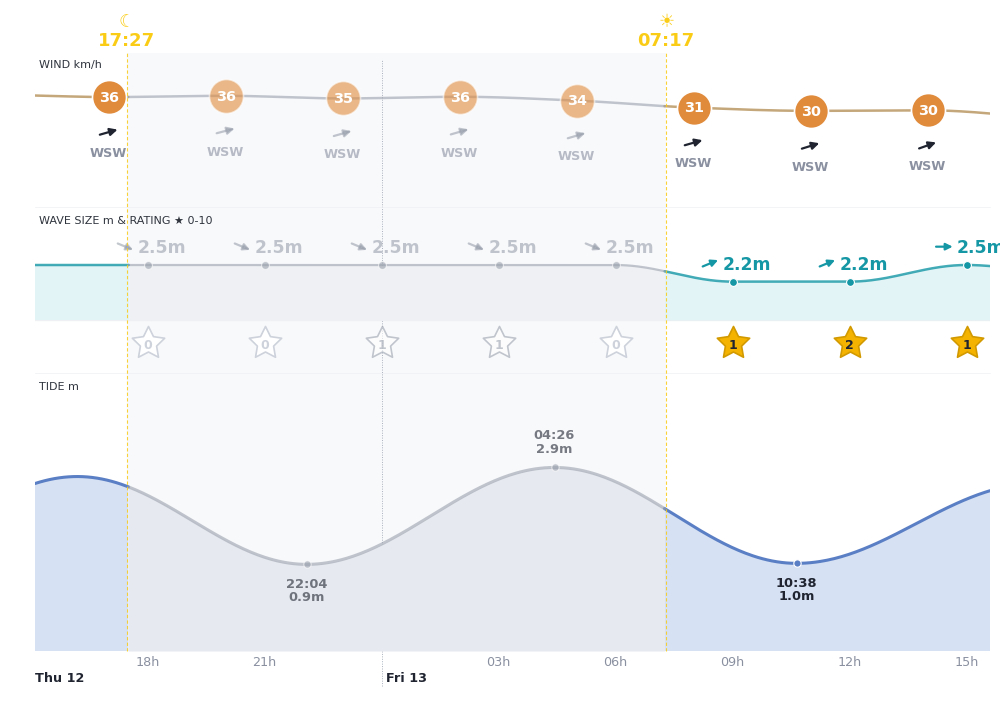
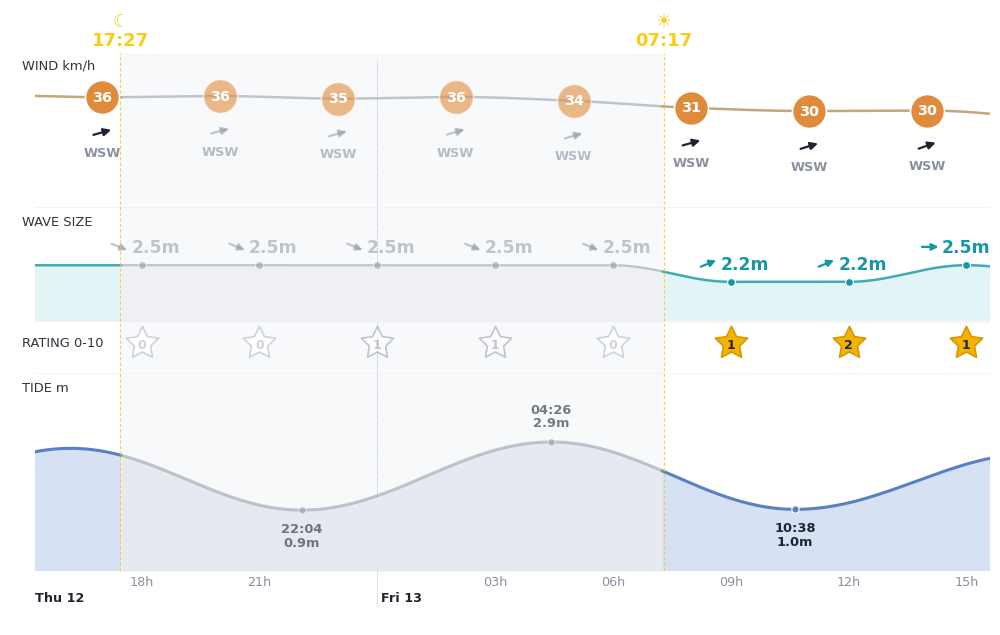
erisurf: run 381

diff --git a/index.html b/index.html
@@ -534,7 +534,7 @@ function draw(){var n=Date.now();cards(n);if(r.open)tide(n)}
 draw();setInterval(draw,60e3);r.addEventListener('toggle',draw);
 document.addEventListener('visibilitychange',function(){if(!document.hidden)draw()});
 if(window.ResizeObserver)new ResizeObserver(function(){if(r.open)draw()}).observe(o);
-})();</script><h2 class="livehd" id="conditions">Wind, tide &amp; surf forecast <span class="plan-fc">· Next 36h</span></h2><figure id="pic-conditions" class="c36"><div class="livechart" data-geo="{&quot;t0&quot;: 1794495999, &quot;t1&quot;: 1794627360, &quot;report&quot;: 1794501759, &quot;left&quot;: 0.035, &quot;right&quot;: 0.99, &quot;top&quot;: 0.0754, &quot;bottom&quot;: 0.9106, &quot;suns&quot;: [1794504456, 1794554259, 1794590805], &quot;sunk&quot;: [&quot;set&quot;, &quot;rise&quot;, &quot;set&quot;], &quot;warp&quot;: [[1794495999, 0.0], [1794495999, 0.0], [1794496899, 0.01129], [1794497799, 0.02255], [1794498699, 0.0337], [1794499599, 0.04467], [1794500499, 0.05535], [1794501399, 0.06564], [1794502299, 0.07544], [1794503199, 0.08466], [1794504099, 0.09324], [1794504999, 0.10115], [1794505899, 0.10839], [1794506799, 0.11499], [1794507699, 0.12102], [1794508599, 0.12655], [1794509499, 0.13169], [1794510399, 0.13655], [1794511299, 0.14122], [1794512199, 0.14578], [1794513099, 0.15031], [1794513999, 0.15483], [1794514899, 0.15935], [1794515799, 0.16387], [1794516699, 0.16839], [1794517599, 0.17292], [1794518499, 0.17744], [1794519399, 0.18196], [1794520299, 0.18648], [1794521199, 0.191], [1794522099, 0.19552], [1794522999, 0.20004], [1794523899, 0.20456], [1794524799, 0.20908], [1794525699, 0.2136], [1794526599, 0.21812], [1794527499, 0.22264], [1794528399, 0.22716], [1794529299, 0.23168], [1794530199, 0.2362], [1794531099, 0.24073], [1794531999, 0.24525], [1794532899, 0.24977], [1794533799, 0.25429], [1794534699, 0.25881], [1794535599, 0.26333], [1794536499, 0.26785], [1794537399, 0.27237], [1794538299, 0.27689], [1794539199, 0.28141], [1794540099, 0.28593], [1794540999, 0.29045], [1794541899, 0.29497], [1794542799, 0.29949], [1794543699, 0.30401], [1794544599, 0.30854], [1794545499, 0.31306], [1794546399, 0.31758], [1794547299, 0.32213], [1794548199, 0.32675], [1794549099, 0.33154], [1794549999, 0.33657], [1794550899, 0.34196], [1794551799, 0.34781], [1794552699, 0.35421], [1794553599, 0.36124], [1794554499, 0.36892], [1794555399, 0.37728], [1794556299, 0.3863], [1794557199, 0.39591], [1794558099, 0.40605], [1794558999, 0.41661], [1794559899, 0.42749], [1794560799, 0.43859], [1794561699, 0.44982], [1794562599, 0.46111], [1794563499, 0.47241], [1794564399, 0.48371], [1794565299, 0.49501], [1794566199, 0.50631], [1794567099, 0.51762], [1794567999, 0.52892], [1794568899, 0.54022], [1794569799, 0.55152], [1794570699, 0.56282], [1794571599, 0.57412], [1794572499, 0.58543], [1794573399, 0.59673], [1794574299, 0.60803], [1794575199, 0.61933], [1794576099, 0.63063], [1794576999, 0.64193], [1794577899, 0.65324], [1794578799, 0.66454], [1794579699, 0.67584], [1794580599, 0.68714], [1794581499, 0.69844], [1794582399, 0.70974], [1794583299, 0.72104], [1794584199, 0.73229], [1794585099, 0.74345], [1794585999, 0.75441], [1794586899, 0.76509], [1794587799, 0.77538], [1794588699, 0.78518], [1794589599, 0.7944], [1794590499, 0.80298], [1794591399, 0.8109], [1794592299, 0.81814], [1794593199, 0.82474], [1794594099, 0.83076], [1794594999, 0.83629], [1794595899, 0.84144], [1794596799, 0.84629], [1794597699, 0.85096], [1794598599, 0.85553], [1794599499, 0.86006], [1794600399, 0.86458], [1794601299, 0.8691], [1794602199, 0.87362], [1794603099, 0.87814], [1794603999, 0.88266], [1794604899, 0.88718], [1794605799, 0.8917], [1794606699, 0.89622], [1794607599, 0.90074], [1794608499, 0.90526], [1794609399, 0.90978], [1794610299, 0.9143], [1794611199, 0.91882], [1794612099, 0.92334], [1794612999, 0.92787], [1794613899, 0.93239], [1794614799, 0.93691], [1794615699, 0.94143], [1794616599, 0.94595], [1794617499, 0.95047], [1794618399, 0.95499], [1794619299, 0.95951], [1794620199, 0.96403], [1794621099, 0.96855], [1794621999, 0.97307], [1794622899, 0.97759], [1794623799, 0.98211], [1794624699, 0.98663], [1794625599, 0.99115], [1794626499, 0.99568], [1794627360, 1.0]]}"><a href="img/381/conditions36.png" target="_blank" title="open full size"><img loading="lazy" src="img/381/conditions36.png" alt="wind, tide and forecast"></a><div class="nowline" hidden><span class="nowlbl"></span></div><script>(function(){
+})();</script><h2 class="livehd" id="conditions">Wind, tide &amp; surf forecast <span class="plan-fc">· Next 36h</span></h2><figure id="pic-conditions" class="c36"><div class="livechart" data-geo="{&quot;t0&quot;: 1794496633, &quot;t1&quot;: 1794627360, &quot;report&quot;: 1794502393, &quot;left&quot;: 0.035, &quot;right&quot;: 0.99, &quot;top&quot;: 0.085, &quot;bottom&quot;: 0.8993, &quot;suns&quot;: [1794504456, 1794554259, 1794590805], &quot;sunk&quot;: [&quot;set&quot;, &quot;rise&quot;, &quot;set&quot;], &quot;warp&quot;: [[1794496633, 0.0], [1794496633, 0.0], [1794497533, 0.01139], [1794498433, 0.0227], [1794499333, 0.03385], [1794500233, 0.04474], [1794501133, 0.05528], [1794502033, 0.06535], [1794502933, 0.07487], [1794503833, 0.08376], [1794504733, 0.09197], [1794505633, 0.09951], [1794506533, 0.10639], [1794507433, 0.11266], [1794508333, 0.1184], [1794509233, 0.12372], [1794510133, 0.12871], [1794511033, 0.13347], [1794511933, 0.13811], [1794512833, 0.14269], [1794513733, 0.14726], [1794514633, 0.15183], [1794515533, 0.15639], [1794516433, 0.16096], [1794517333, 0.16553], [1794518233, 0.17009], [1794519133, 0.17466], [1794520033, 0.17922], [1794520933, 0.18379], [1794521833, 0.18836], [1794522733, 0.19292], [1794523633, 0.19749], [1794524533, 0.20205], [1794525433, 0.20662], [1794526333, 0.21119], [1794527233, 0.21575], [1794528133, 0.22032], [1794529033, 0.22489], [1794529933, 0.22945], [1794530833, 0.23402], [1794531733, 0.23858], [1794532633, 0.24315], [1794533533, 0.24772], [1794534433, 0.25228], [1794535333, 0.25685], [1794536233, 0.26141], [1794537133, 0.26598], [1794538033, 0.27055], [1794538933, 0.27511], [1794539833, 0.27968], [1794540733, 0.28425], [1794541633, 0.28881], [1794542533, 0.29338], [1794543433, 0.29794], [1794544333, 0.30251], [1794545233, 0.30708], [1794546133, 0.31164], [1794547033, 0.31622], [1794547933, 0.32086], [1794548833, 0.32563], [1794549733, 0.33062], [1794550633, 0.33593], [1794551533, 0.34168], [1794552433, 0.34795], [1794553333, 0.35483], [1794554233, 0.36236], [1794555133, 0.37058], [1794556033, 0.37947], [1794556933, 0.38899], [1794557833, 0.39906], [1794558733, 0.40959], [1794559633, 0.42049], [1794560533, 0.43164], [1794561433, 0.44295], [1794562333, 0.45434], [1794563233, 0.46575], [1794564133, 0.47717], [1794565033, 0.48858], [1794565933, 0.5], [1794566833, 0.51141], [1794567733, 0.52283], [1794568633, 0.53424], [1794569533, 0.54566], [1794570433, 0.55707], [1794571333, 0.56849], [1794572233, 0.5799], [1794573133, 0.59132], [1794574033, 0.60273], [1794574933, 0.61415], [1794575833, 0.62557], [1794576733, 0.63698], [1794577633, 0.6484], [1794578533, 0.65981], [1794579433, 0.67123], [1794580333, 0.68264], [1794581233, 0.69406], [1794582133, 0.70547], [1794583033, 0.71688], [1794583933, 0.72825], [1794584833, 0.73952], [1794585733, 0.75059], [1794586633, 0.76138], [1794587533, 0.77177], [1794588433, 0.78167], [1794589333, 0.79098], [1794590233, 0.79965], [1794591133, 0.80764], [1794592033, 0.81496], [1794592933, 0.82162], [1794593833, 0.82771], [1794594733, 0.8333], [1794595633, 0.83849], [1794596533, 0.8434], [1794597433, 0.84811], [1794598333, 0.85272], [1794599233, 0.8573], [1794600133, 0.86186], [1794601033, 0.86643], [1794601933, 0.871], [1794602833, 0.87556], [1794603733, 0.88013], [1794604633, 0.88469], [1794605533, 0.88926], [1794606433, 0.89383], [1794607333, 0.89839], [1794608233, 0.90296], [1794609133, 0.90753], [1794610033, 0.91209], [1794610933, 0.91666], [1794611833, 0.92122], [1794612733, 0.92579], [1794613633, 0.93036], [1794614533, 0.93492], [1794615433, 0.93949], [1794616333, 0.94405], [1794617233, 0.94862], [1794618133, 0.95319], [1794619033, 0.95775], [1794619933, 0.96232], [1794620833, 0.96689], [1794621733, 0.97145], [1794622633, 0.97602], [1794623533, 0.98058], [1794624433, 0.98515], [1794625333, 0.98972], [1794626233, 0.99428], [1794627133, 0.99885], [1794627360, 1.0]]}"><a href="img/381/conditions36.png" target="_blank" title="open full size"><img loading="lazy" src="img/381/conditions36.png" alt="wind, tide and forecast"></a><div class="nowline" hidden><span class="nowlbl"></span></div><script>(function(){
 var box=document.currentScript.parentNode,g=JSON.parse(box.dataset.geo),
 line=box.querySelector('.nowline'),lbl=line.firstChild;
 // time -> fraction of the plot width; piecewise when the night is squeezed
@@ -573,7 +573,7 @@ function place(){
 place();setInterval(place,60000);
 // the 72h chart sits in a closed <details>: place the line when it opens
 var dd=box.closest('details');if(dd)dd.addEventListener('toggle',place);
-})();</script></div><details class="c72"><summary title="Show / hide the next 72h"><span class="c72-open">&gt;&gt;</span><span class="c72-close">&lt;&lt;</span></summary><div class="scroll72"><div class="livechart" data-geo="{&quot;t0&quot;: 1794495999, &quot;t1&quot;: 1794756960, &quot;report&quot;: 1794501759, &quot;left&quot;: 0.035, &quot;right&quot;: 0.99, &quot;top&quot;: 0.0754, &quot;bottom&quot;: 0.9106, &quot;suns&quot;: [1794504456, 1794554259, 1794590805, 1794640727, 1794677156], &quot;sunk&quot;: [&quot;set&quot;, &quot;rise&quot;, &quot;set&quot;, &quot;rise&quot;, &quot;set&quot;], &quot;warp&quot;: [[1794495999, 0.0], [1794495999, 0.0], [1794496899, 0.00587], [1794497799, 0.01172], [1794498699, 0.01751], [1794499599, 0.02321], [1794500499, 0.02876], [1794501399, 0.03411], [1794502299, 0.0392], [1794503199, 0.04399], [1794504099, 0.04845], [1794504999, 0.05256], [1794505899, 0.05632], [1794506799, 0.05975], [1794507699, 0.06288], [1794508599, 0.06576], [1794509499, 0.06843], [1794510399, 0.07095], [1794511299, 0.07338], [1794512199, 0.07575], [1794513099, 0.07811], [1794513999, 0.08045], [1794514899, 0.0828], [1794515799, 0.08515], [1794516699, 0.0875], [1794517599, 0.08985], [1794518499, 0.0922], [1794519399, 0.09455], [1794520299, 0.0969], [1794521199, 0.09925], [1794522099, 0.1016], [1794522999, 0.10394], [1794523899, 0.10629], [1794524799, 0.10864], [1794525699, 0.11099], [1794526599, 0.11334], [1794527499, 0.11569], [1794528399, 0.11804], [1794529299, 0.12039], [1794530199, 0.12274], [1794531099, 0.12509], [1794531999, 0.12744], [1794532899, 0.12978], [1794533799, 0.13213], [1794534699, 0.13448], [1794535599, 0.13683], [1794536499, 0.13918], [1794537399, 0.14153], [1794538299, 0.14388], [1794539199, 0.14623], [1794540099, 0.14858], [1794540999, 0.15093], [1794541899, 0.15327], [1794542799, 0.15562], [1794543699, 0.15797], [1794544599, 0.16032], [1794545499, 0.16267], [1794546399, 0.16502], [1794547299, 0.16738], [1794548199, 0.16979], [1794549099, 0.17227], [1794549999, 0.17489], [1794550899, 0.17769], [1794551799, 0.18073], [1794552699, 0.18406], [1794553599, 0.18771], [1794554499, 0.1917], [1794555399, 0.19604], [1794556299, 0.20073], [1794557199, 0.20572], [1794558099, 0.21099], [1794558999, 0.21648], [1794559899, 0.22213], [1794560799, 0.2279], [1794561699, 0.23374], [1794562599, 0.2396], [1794563499, 0.24547], [1794564399, 0.25135], [1794565299, 0.25722], [1794566199, 0.26309], [1794567099, 0.26896], [1794567999, 0.27484], [1794568899, 0.28071], [1794569799, 0.28658], [1794570699, 0.29245], [1794571599, 0.29833], [1794572499, 0.3042], [1794573399, 0.31007], [1794574299, 0.31595], [1794575199, 0.32182], [1794576099, 0.32769], [1794576999, 0.33356], [1794577899, 0.33944], [1794578799, 0.34531], [1794579699, 0.35118], [1794580599, 0.35705], [1794581499, 0.36293], [1794582399, 0.3688], [1794583299, 0.37467], [1794584199, 0.38052], [1794585099, 0.38631], [1794585999, 0.39201], [1794586899, 0.39756], [1794587799, 0.40291], [1794588699, 0.408], [1794589599, 0.41279], [1794590499, 0.41725], [1794591399, 0.42136], [1794592299, 0.42512], [1794593199, 0.42855], [1794594099, 0.43168], [1794594999, 0.43456], [1794595899, 0.43723], [1794596799, 0.43975], [1794597699, 0.44218], [1794598599, 0.44455], [1794599499, 0.4469], [1794600399, 0.44925], [1794601299, 0.4516], [1794602199, 0.45395], [1794603099, 0.4563], [1794603999, 0.45865], [1794604899, 0.461], [1794605799, 0.46335], [1794606699, 0.4657], [1794607599, 0.46805], [1794608499, 0.47039], [1794609399, 0.47274], [1794610299, 0.47509], [1794611199, 0.47744], [1794612099, 0.47979], [1794612999, 0.48214], [1794613899, 0.48449], [1794614799, 0.48684], [1794615699, 0.48919], [1794616599, 0.49154], [1794617499, 0.49388], [1794618399, 0.49623], [1794619299, 0.49858], [1794620199, 0.50093], [1794621099, 0.50328], [1794621999, 0.50563], [1794622899, 0.50798], [1794623799, 0.51033], [1794624699, 0.51268], [1794625599, 0.51503], [1794626499, 0.51738], [1794627399, 0.51972], [1794628299, 0.52207], [1794629199, 0.52442], [1794630099, 0.52677], [1794630999, 0.52912], [1794631899, 0.53147], [1794632799, 0.53382], [1794633699, 0.53618], [1794634599, 0.53859], [1794635499, 0.54107], [1794636399, 0.54369], [1794637299, 0.54649], [1794638199, 0.54953], [1794639099, 0.55286], [1794639999, 0.5565], [1794640899, 0.5605], [1794641799, 0.56484], [1794642699, 0.56953], [1794643599, 0.57452], [1794644499, 0.57979], [1794645399, 0.58528], [1794646299, 0.59093], [1794647199, 0.5967], [1794648099, 0.60254], [1794648999, 0.6084], [1794649899, 0.61427], [1794650799, 0.62015], [1794651699, 0.62602], [1794652599, 0.63189], [1794653499, 0.63776], [1794654399, 0.64364], [1794655299, 0.64951], [1794656199, 0.65538], [1794657099, 0.66125], [1794657999, 0.66713], [1794658899, 0.673], [1794659799, 0.67887], [1794660699, 0.68474], [1794661599, 0.69062], [1794662499, 0.69649], [1794663399, 0.70236], [1794664299, 0.70823], [1794665199, 0.71411], [1794666099, 0.71998], [1794666999, 0.72585], [1794667899, 0.73172], [1794668799, 0.7376], [1794669699, 0.74346], [1794670599, 0.7493], [1794671499, 0.75507], [1794672399, 0.76072], [1794673299, 0.76621], [1794674199, 0.77148], [1794675099, 0.77647], [1794675999, 0.78115], [1794676899, 0.7855], [1794677799, 0.78949], [1794678699, 0.79314], [1794679599, 0.79647], [1794680499, 0.79951], [1794681399, 0.80231], [1794682299, 0.80492], [1794683199, 0.80741], [1794684099, 0.80981], [1794684999, 0.81218], [1794685899, 0.81453], [1794686799, 0.81688], [1794687699, 0.81923], [1794688599, 0.82158], [1794689499, 0.82392], [1794690399, 0.82627], [1794691299, 0.82862], [1794692199, 0.83097], [1794693099, 0.83332], [1794693999, 0.83567], [1794694899, 0.83802], [1794695799, 0.84037], [1794696699, 0.84272], [1794697599, 0.84507], [1794698499, 0.84741], [1794699399, 0.84976], [1794700299, 0.85211], [1794701199, 0.85446], [1794702099, 0.85681], [1794702999, 0.85916], [1794703899, 0.86151], [1794704799, 0.86386], [1794705699, 0.86621], [1794706599, 0.86856], [1794707499, 0.8709], [1794708399, 0.87325], [1794709299, 0.8756], [1794710199, 0.87795], [1794711099, 0.8803], [1794711999, 0.88265], [1794712899, 0.885], [1794713799, 0.88735], [1794714699, 0.8897], [1794715599, 0.89205], [1794716499, 0.8944], [1794717399, 0.89674], [1794718299, 0.89909], [1794719199, 0.90144], [1794720099, 0.90379], [1794720999, 0.90614], [1794721899, 0.90849], [1794722799, 0.91084], [1794723699, 0.91319], [1794724599, 0.91554], [1794725499, 0.91789], [1794726399, 0.92023], [1794727299, 0.92258], [1794728199, 0.92493], [1794729099, 0.92728], [1794729999, 0.92963], [1794730899, 0.93198], [1794731799, 0.93433], [1794732699, 0.93668], [1794733599, 0.93903], [1794734499, 0.94138], [1794735399, 0.94372], [1794736299, 0.94607], [1794737199, 0.94842], [1794738099, 0.95077], [1794738999, 0.95312], [1794739899, 0.95547], [1794740799, 0.95782], [1794741699, 0.96017], [1794742599, 0.96252], [1794743499, 0.96487], [1794744399, 0.96722], [1794745299, 0.96956], [1794746199, 0.97191], [1794747099, 0.97426], [1794747999, 0.97661], [1794748899, 0.97896], [1794749799, 0.98131], [1794750699, 0.98366], [1794751599, 0.98601], [1794752499, 0.98836], [1794753399, 0.99071], [1794754299, 0.99305], [1794755199, 0.9954], [1794756099, 0.99775], [1794756960, 1.0]], &quot;fs&quot;: 2}"><a href="img/381/conditions72.png" target="_blank" title="open full size"><img loading="lazy" src="img/381/conditions72.png" alt="wind, tide and forecast, 72h"></a><div class="nowline" hidden><span class="nowlbl"></span></div><script>(function(){
+})();</script></div><details class="c72"><summary title="Show / hide the next 72h"><span class="c72-open">&gt;&gt;</span><span class="c72-close">&lt;&lt;</span></summary><div class="scroll72"><div class="livechart" data-geo="{&quot;t0&quot;: 1794496633, &quot;t1&quot;: 1794756960, &quot;report&quot;: 1794502393, &quot;left&quot;: 0.035, &quot;right&quot;: 0.99, &quot;top&quot;: 0.085, &quot;bottom&quot;: 0.8993, &quot;suns&quot;: [1794504456, 1794554259, 1794590805, 1794640727, 1794677156], &quot;sunk&quot;: [&quot;set&quot;, &quot;rise&quot;, &quot;set&quot;, &quot;rise&quot;, &quot;set&quot;], &quot;warp&quot;: [[1794496633, 0.0], [1794496633, 0.0], [1794497533, 0.00589], [1794498433, 0.01174], [1794499333, 0.0175], [1794500233, 0.02314], [1794501133, 0.02859], [1794502033, 0.03379], [1794502933, 0.03872], [1794503833, 0.04331], [1794504733, 0.04756], [1794505633, 0.05146], [1794506533, 0.05502], [1794507433, 0.05826], [1794508333, 0.06123], [1794509233, 0.06398], [1794510133, 0.06656], [1794511033, 0.06902], [1794511933, 0.07142], [1794512833, 0.07379], [1794513733, 0.07615], [1794514633, 0.07851], [1794515533, 0.08087], [1794516433, 0.08324], [1794517333, 0.0856], [1794518233, 0.08796], [1794519133, 0.09032], [1794520033, 0.09268], [1794520933, 0.09504], [1794521833, 0.0974], [1794522733, 0.09976], [1794523633, 0.10213], [1794524533, 0.10449], [1794525433, 0.10685], [1794526333, 0.10921], [1794527233, 0.11157], [1794528133, 0.11393], [1794529033, 0.11629], [1794529933, 0.11865], [1794530833, 0.12102], [1794531733, 0.12338], [1794532633, 0.12574], [1794533533, 0.1281], [1794534433, 0.13046], [1794535333, 0.13282], [1794536233, 0.13518], [1794537133, 0.13754], [1794538033, 0.13991], [1794538933, 0.14227], [1794539833, 0.14463], [1794540733, 0.14699], [1794541633, 0.14935], [1794542533, 0.15171], [1794543433, 0.15407], [1794544333, 0.15643], [1794545233, 0.1588], [1794546133, 0.16116], [1794547033, 0.16353], [1794547933, 0.16593], [1794548833, 0.16839], [1794549733, 0.17097], [1794550633, 0.17372], [1794551533, 0.17669], [1794552433, 0.17993], [1794553333, 0.18349], [1794554233, 0.18739], [1794555133, 0.19164], [1794556033, 0.19623], [1794556933, 0.20115], [1794557833, 0.20636], [1794558733, 0.21181], [1794559633, 0.21745], [1794560533, 0.22321], [1794561433, 0.22906], [1794562333, 0.23495], [1794563233, 0.24085], [1794564133, 0.24675], [1794565033, 0.25266], [1794565933, 0.25856], [1794566833, 0.26446], [1794567733, 0.27037], [1794568633, 0.27627], [1794569533, 0.28217], [1794570433, 0.28808], [1794571333, 0.29398], [1794572233, 0.29988], [1794573133, 0.30578], [1794574033, 0.31169], [1794574933, 0.31759], [1794575833, 0.32349], [1794576733, 0.3294], [1794577633, 0.3353], [1794578533, 0.3412], [1794579433, 0.34711], [1794580333, 0.35301], [1794581233, 0.35891], [1794582133, 0.36482], [1794583033, 0.37072], [1794583933, 0.37659], [1794584833, 0.38242], [1794585733, 0.38815], [1794586633, 0.39373], [1794587533, 0.3991], [1794588433, 0.40422], [1794589333, 0.40904], [1794590233, 0.41352], [1794591133, 0.41765], [1794592033, 0.42143], [1794592933, 0.42488], [1794593833, 0.42803], [1794594733, 0.43092], [1794595633, 0.4336], [1794596533, 0.43614], [1794597433, 0.43858], [1794598333, 0.44096], [1794599233, 0.44333], [1794600133, 0.44569], [1794601033, 0.44805], [1794601933, 0.45041], [1794602833, 0.45277], [1794603733, 0.45513], [1794604633, 0.4575], [1794605533, 0.45986], [1794606433, 0.46222], [1794607333, 0.46458], [1794608233, 0.46694], [1794609133, 0.4693], [1794610033, 0.47166], [1794610933, 0.47402], [1794611833, 0.47639], [1794612733, 0.47875], [1794613633, 0.48111], [1794614533, 0.48347], [1794615433, 0.48583], [1794616333, 0.48819], [1794617233, 0.49055], [1794618133, 0.49291], [1794619033, 0.49528], [1794619933, 0.49764], [1794620833, 0.5], [1794621733, 0.50236], [1794622633, 0.50472], [1794623533, 0.50708], [1794624433, 0.50944], [1794625333, 0.5118], [1794626233, 0.51417], [1794627133, 0.51653], [1794628033, 0.51889], [1794628933, 0.52125], [1794629833, 0.52361], [1794630733, 0.52597], [1794631633, 0.52833], [1794632533, 0.53069], [1794633433, 0.53306], [1794634333, 0.53546], [1794635233, 0.53793], [1794636133, 0.54051], [1794637033, 0.54326], [1794637933, 0.54623], [1794638833, 0.54947], [1794639733, 0.55303], [1794640633, 0.55692], [1794641533, 0.56117], [1794642433, 0.56577], [1794643333, 0.57069], [1794644233, 0.5759], [1794645133, 0.58135], [1794646033, 0.58698], [1794646933, 0.59275], [1794647833, 0.5986], [1794648733, 0.60449], [1794649633, 0.61039], [1794650533, 0.61629], [1794651433, 0.62219], [1794652333, 0.6281], [1794653233, 0.634], [1794654133, 0.6399], [1794655033, 0.64581], [1794655933, 0.65171], [1794656833, 0.65761], [1794657733, 0.66352], [1794658633, 0.66942], [1794659533, 0.67532], [1794660433, 0.68122], [1794661333, 0.68713], [1794662233, 0.69303], [1794663133, 0.69893], [1794664033, 0.70484], [1794664933, 0.71074], [1794665833, 0.71664], [1794666733, 0.72255], [1794667633, 0.72845], [1794668533, 0.73435], [1794669433, 0.74025], [1794670333, 0.74613], [1794671233, 0.75196], [1794672133, 0.75769], [1794673033, 0.76326], [1794673933, 0.76864], [1794674833, 0.77376], [1794675733, 0.77857], [1794676633, 0.78305], [1794677533, 0.78719], [1794678433, 0.79097], [1794679333, 0.79442], [1794680233, 0.79756], [1794681133, 0.80045], [1794682033, 0.80314], [1794682933, 0.80568], [1794683833, 0.80811], [1794684733, 0.8105], [1794685633, 0.81286], [1794686533, 0.81523], [1794687433, 0.81759], [1794688333, 0.81995], [1794689233, 0.82231], [1794690133, 0.82467], [1794691033, 0.82703], [1794691933, 0.82939], [1794692833, 0.83176], [1794693733, 0.83412], [1794694633, 0.83648], [1794695533, 0.83884], [1794696433, 0.8412], [1794697333, 0.84356], [1794698233, 0.84592], [1794699133, 0.84828], [1794700033, 0.85065], [1794700933, 0.85301], [1794701833, 0.85537], [1794702733, 0.85773], [1794703633, 0.86009], [1794704533, 0.86245], [1794705433, 0.86481], [1794706333, 0.86717], [1794707233, 0.86954], [1794708133, 0.8719], [1794709033, 0.87426], [1794709933, 0.87662], [1794710833, 0.87898], [1794711733, 0.88134], [1794712633, 0.8837], [1794713533, 0.88606], [1794714433, 0.88843], [1794715333, 0.89079], [1794716233, 0.89315], [1794717133, 0.89551], [1794718033, 0.89787], [1794718933, 0.90023], [1794719833, 0.90259], [1794720733, 0.90495], [1794721633, 0.90732], [1794722533, 0.90968], [1794723433, 0.91204], [1794724333, 0.9144], [1794725233, 0.91676], [1794726133, 0.91912], [1794727033, 0.92148], [1794727933, 0.92384], [1794728833, 0.92621], [1794729733, 0.92857], [1794730633, 0.93093], [1794731533, 0.93329], [1794732433, 0.93565], [1794733333, 0.93801], [1794734233, 0.94037], [1794735133, 0.94273], [1794736033, 0.9451], [1794736933, 0.94746], [1794737833, 0.94982], [1794738733, 0.95218], [1794739633, 0.95454], [1794740533, 0.9569], [1794741433, 0.95926], [1794742333, 0.96162], [1794743233, 0.96399], [1794744133, 0.96635], [1794745033, 0.96871], [1794745933, 0.97107], [1794746833, 0.97343], [1794747733, 0.97579], [1794748633, 0.97815], [1794749533, 0.98051], [1794750433, 0.98288], [1794751333, 0.98524], [1794752233, 0.9876], [1794753133, 0.98996], [1794754033, 0.99232], [1794754933, 0.99468], [1794755833, 0.99704], [1794756733, 0.9994], [1794756960, 1.0]], &quot;fs&quot;: 2}"><a href="img/381/conditions72.png" target="_blank" title="open full size"><img loading="lazy" src="img/381/conditions72.png" alt="wind, tide and forecast, 72h"></a><div class="nowline" hidden><span class="nowlbl"></span></div><script>(function(){
 var box=document.currentScript.parentNode,g=JSON.parse(box.dataset.geo),
 line=box.querySelector('.nowline'),lbl=line.firstChild;
 // time -> fraction of the plot width; piecewise when the night is squeezed
